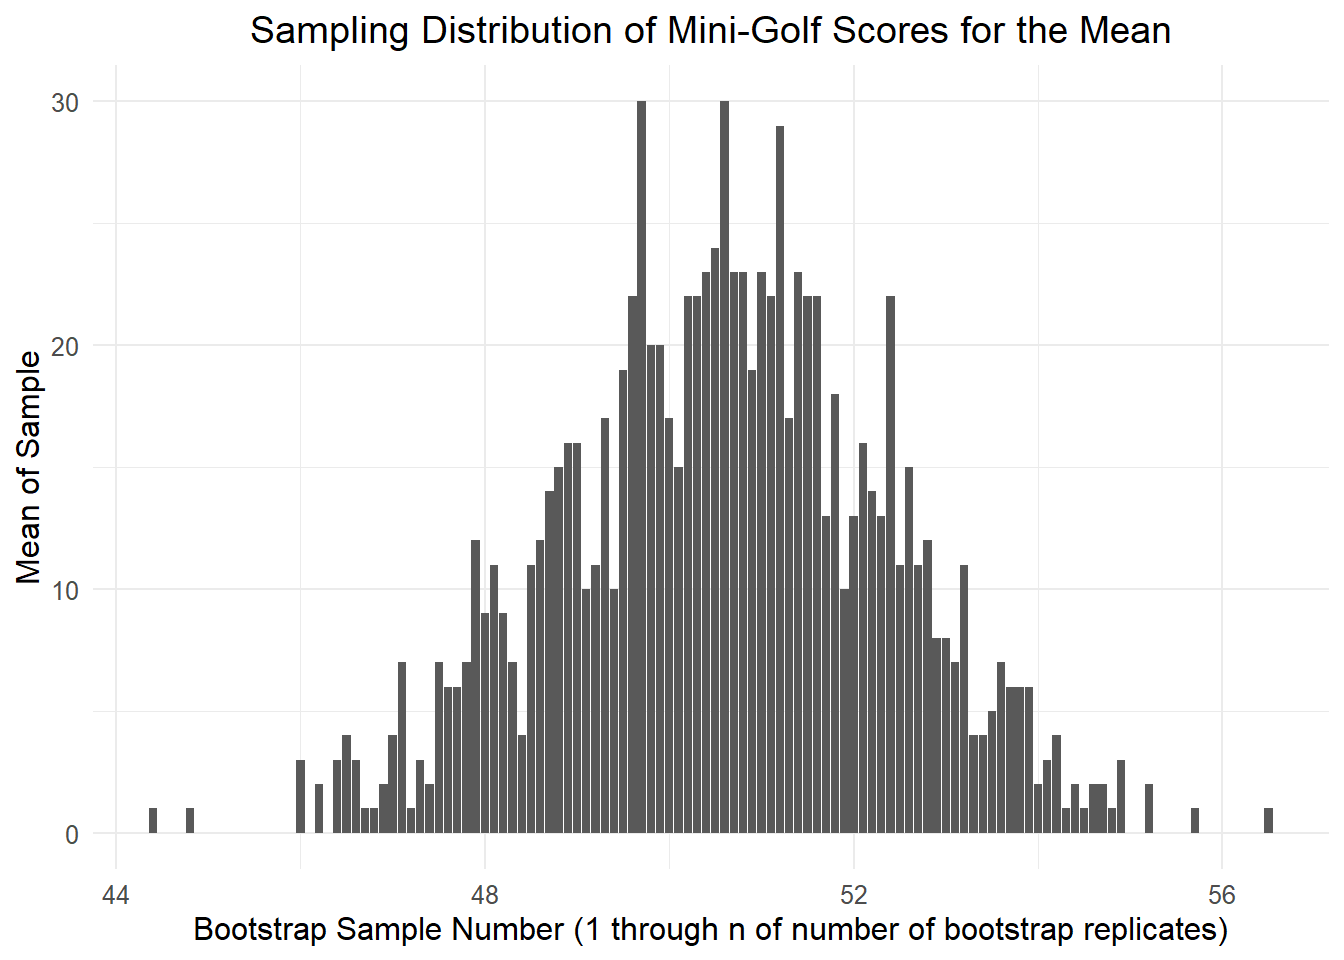
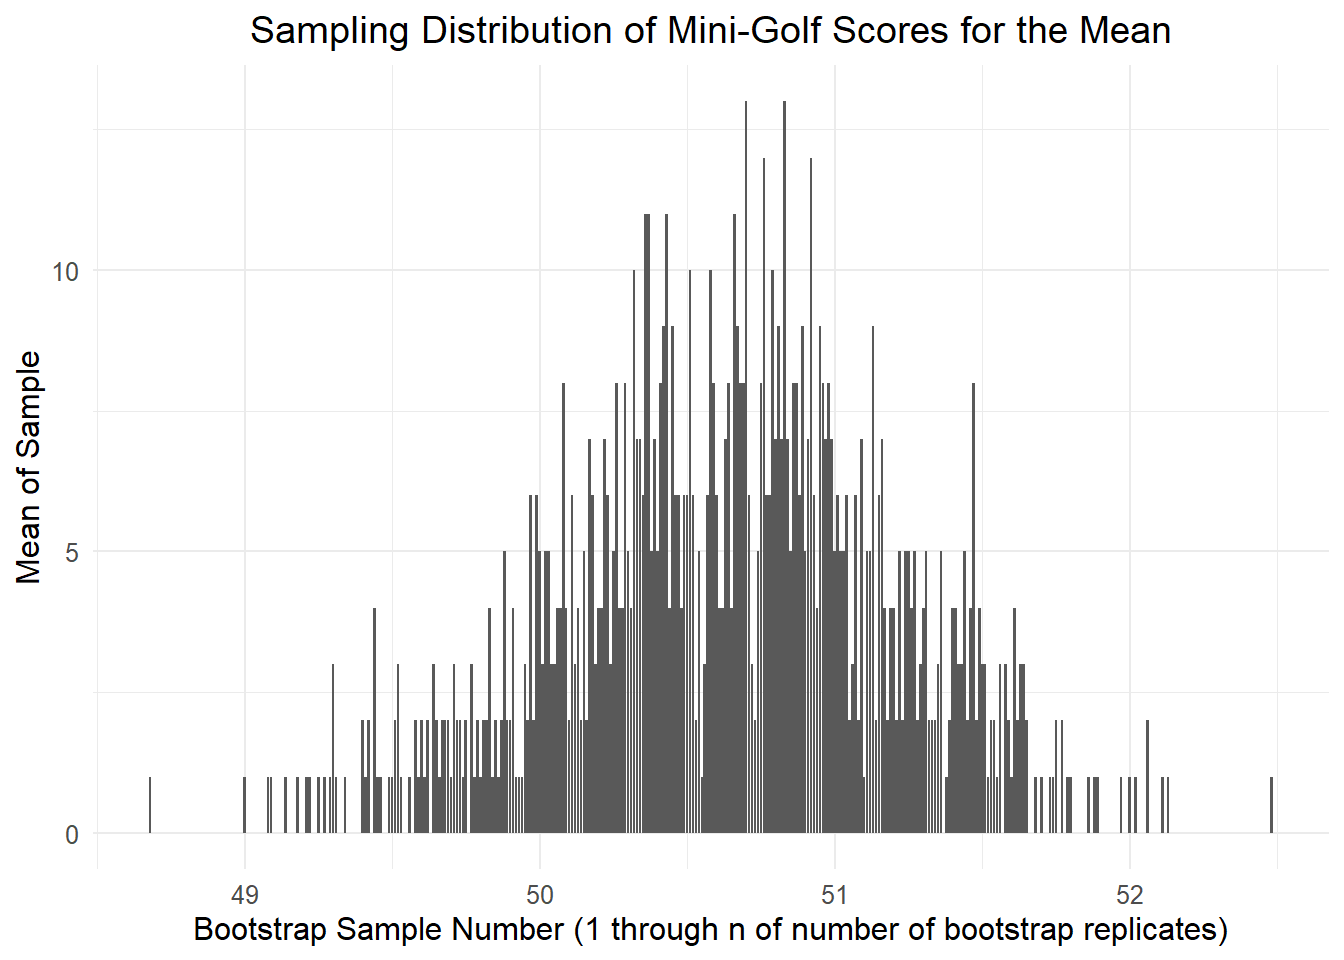
fixed 10 to 100 for mingolf scores

diff --git a/_site/posts/bootstrap/bootstrapping.html b/_site/posts/bootstrap/bootstrapping.html
@@ -235,7 +235,7 @@ Estimating Variance
 <p>Bootstrapping works by drawing repeated samples, with replacement aka putting the observations we drew back, from our sample. The idea is that by resampling the data we can use this to imagine what a new sample (of the same size) would look like if we drew from our population again.</p>
 <p>The beauty about bootstrapping is all we need is an estimate and a sampling distribution <span class="citation" data-cites="gelman2020regression">(<a href="#ref-gelman2020regression" role="doc-biblioref">Gelman, Hill, and Vehtari 2020</a>)</span>. A better way to understand it is with a quick example.</p>
 <p>Imagine that you go to an ice cream store and order a bowl of ice cream. You get a bowl of ice cream that’s 80% vanilla and 20% chocolate but you’re curious what the big tub in the back of the store looks like. Is it mostly vanilla? Chocolate? Is it a 70/30 split of either? Are there other flavours? If you asked for another bowl from the same tub would you get the same proportion?</p>
-<p>To try and determine this, you take a spoonful from the bowl. It’s 60% chocolate and 40% vanilla. You put it back then take another spoonful and notice it’s 80% vanilla and 20% chocolate. If you do this over and over again, you can use this to try and get an idea of what the big tub in the back looks like.<br>
+<p>To try and determine this, you take a spoonful of ice cream randomly and put it in another bowl (of the same size). You do this over and over until you have a new bowl of ice cream. This is magical ice cream though, so once you take a spoonful, that same flavour and amount appears in the bowl again (aka it’s <em>replaced,</em> so it can appear more than once). This new bowl of ice cream is 60% chocolate and 40% vanilla. You put it back then do it all over again and notice it’s 80% vanilla and 20% chocolate. If you do this over and over again, you can use this to try and get an idea of what the big tub in the back looks like.<br>
 <br>
 This is bootstrapping. We take samples, with replacement, to try to understand what the whole picture looks like. Let’s try another example with some actual numbers!</p>
 </section>
@@ -245,9 +245,9 @@ This is bootstrapping. We take samples, with replacement, to try to understand w
 <br>
 You start to think: “I play a lot of mini-golf, but am I any good? What would my score be on average?” being the keen person that you are, you also wonder what kind of confidence intervals go with this average. So you decide to use bootstrapping to answer this, using these steps:</p>
 <ol type="1">
-<li>Draw 10 scores, from any day (randomly) and write them down.</li>
+<li>Draw 100 scores, from any day (randomly) and write them down. We are doing this with replacement, so the same observation can appear more than once.</li>
 <li>Put them back.</li>
-<li>Draw another 10 scores and write them down.</li>
+<li>Draw another 100 scores and write them down.</li>
 <li>Put them back.</li>
 <li>Repeat steps 1-4</li>
 </ol>
@@ -257,7 +257,7 @@ You start to think: “I play a lot of mini-golf, but am I any good? What would 
 <h2 class="anchored" data-anchor-id="mini-golf---average-score">Mini-Golf - Average Score</h2>
 <p>So we know our average score, if we just take the mean of all the scores. But what is the confidence interval for this mean? To calculate this we often use the standard error while assuming a normal distribution. But what is the standard error? Is it the same as the standard deviation? Not quite.</p>
 <p>The standard error is the standard deviation of the <em>sampling distribution</em>. The sampling distribution is the probability distribution of a statistic. This may sound like a bit of jargon, so instead let’s use a visual.</p>
-<p>For our example, we are taking 10 scores over and over. Each time we take 10 scores, we calculate the mean. So for each time, we have the mean. Let’s plot this!</p>
+<p>For our example, we are taking 100 scores over and over. Each time we take 100 scores, we calculate the mean. So for each time, we have the mean. Let’s plot this!</p>
 <div class="cell">
 <details>
 <summary>Code</summary>
@@ -287,7 +287,7 @@ You start to think: “I play a lot of mini-golf, but am I any good? What would 
 <span id="cb1-24"><a href="#cb1-24" aria-hidden="true" tabindex="-1"></a>  <span class="co"># Draw 10 samples from our original scores, with replacement. That </span></span>
 <span id="cb1-25"><a href="#cb1-25" aria-hidden="true" tabindex="-1"></a>  <span class="co"># way you have the same sample each time</span></span>
 <span id="cb1-26"><a href="#cb1-26" aria-hidden="true" tabindex="-1"></a>  </span>
-<span id="cb1-27"><a href="#cb1-27" aria-hidden="true" tabindex="-1"></a>  bootstrap_sample <span class="ot">&lt;-</span> <span class="fu">sample</span>(original_scores, <span class="at">size =</span> <span class="dv">10</span>, <span class="at">replace =</span> <span class="cn">TRUE</span>) </span>
+<span id="cb1-27"><a href="#cb1-27" aria-hidden="true" tabindex="-1"></a>  bootstrap_sample <span class="ot">&lt;-</span> <span class="fu">sample</span>(original_scores, <span class="at">size =</span> <span class="dv">100</span>, <span class="at">replace =</span> <span class="cn">TRUE</span>) </span>
 <span id="cb1-28"><a href="#cb1-28" aria-hidden="true" tabindex="-1"></a>  </span>
 <span id="cb1-29"><a href="#cb1-29" aria-hidden="true" tabindex="-1"></a>  <span class="co"># Calculate the mean for our new sample </span></span>
 <span id="cb1-30"><a href="#cb1-30" aria-hidden="true" tabindex="-1"></a>  </span>
@@ -326,7 +326,7 @@ You start to think: “I play a lot of mini-golf, but am I any good? What would 
 <p><img src="bootstrapping_files/figure-html/sampling distribution plot-1.png" class="img-fluid" width="672"></p>
 </div>
 </div>
-<p>Each of these is an estimate of the mean. This is a <em>sampling distribution.</em> We can now use this to determine our confidence intervals. We can calculate the standard error by calculating the standard deviation of this distribution or, we can do it using percentiles. If we’re using a two-sided test and 95% CIs then can take the 0.025 and 0.975 percentiles! Doing this, we now know our average score is 50.66 and our confidence interval is 47.0975, 53.9025!</p>
+<p>Each of these is an estimate of the mean. This is a <em>sampling distribution.</em> We can now use this to determine our confidence intervals. We can calculate the standard error by calculating the standard deviation of this distribution or, we can do it using percentiles. If we’re using a two-sided test and 95% CIs then can take the 0.025 and 0.975 percentiles! Doing this, we now know our average score is 50.66 and our confidence interval is 49.44975, 51.64!</p>
 <p>However, this is the mean. It doesn’t account for the number of obstacles on the course or if it was a weekend (perhaps we’d feel more rushed if we were playing on the weekend, making us play worse). So what if we want to fit a model and get 95% CIs for that model?</p>
 </section>
 <section id="mini-golf-glm-time" class="level2">
@@ -425,7 +425,7 @@ You start to think: “I play a lot of mini-golf, but am I any good? What would 
 </section>
 <section id="whats-next" class="level2">
 <h2 class="anchored" data-anchor-id="whats-next">What’s Next?</h2>
-<p>Bootstrapping is a wide area, this post was meant to be an introduction. There are a wide variety of use cases and types of bootstrapping, for example the bias-corrected and accelerated bootstrap. If you’re interested in learning more, there is an entire textbook on it <span class="citation" data-cites="davison1997bootstrap">(<a href="#ref-davison1997bootstrap" role="doc-biblioref">Davison and Hinkley 1997</a>)</span>. Happy bootstrapping!</p>
+<p>Bootstrapping is a wide area, this post was meant to be an introduction. There are a wide variety of use cases and types of bootstrapping, for example the bias-corrected and accelerated bootstrap. If you’re interested in learning more, there is an entire textbook on bootstrapping <span class="citation" data-cites="davison1997bootstrap">(<a href="#ref-davison1997bootstrap" role="doc-biblioref">Davison and Hinkley 1997</a>)</span>. Happy bootstrapping!</p>
 
 
 

diff --git a/_site/index.html b/_site/index.html
@@ -177,7 +177,7 @@ ul.task-list li input[type="checkbox"] {
 
 <div class="quarto-listing quarto-listing-container-default" id="listing-listing">
 <div class="list quarto-listing-default">
-<div class="quarto-post image-right" data-index="0" data-categories="Resampling,Bootstrapping,Variance Estimation" data-listing-date-sort="1698634800000" data-listing-file-modified-sort="1700154367749" data-listing-date-modified-sort="NaN" data-listing-reading-time-sort="9">
+<div class="quarto-post image-right" data-index="0" data-categories="Resampling,Bootstrapping,Variance Estimation" data-listing-date-sort="1698634800000" data-listing-file-modified-sort="1700163985722" data-listing-date-modified-sort="NaN" data-listing-reading-time-sort="9">
 <div class="thumbnail">
 <p><a href="./posts/bootstrap/bootstrapping.html"> <img src="./posts/bootstrap/bootstraps.png" class="thumbnail-image"> </a></p>
 </div>
